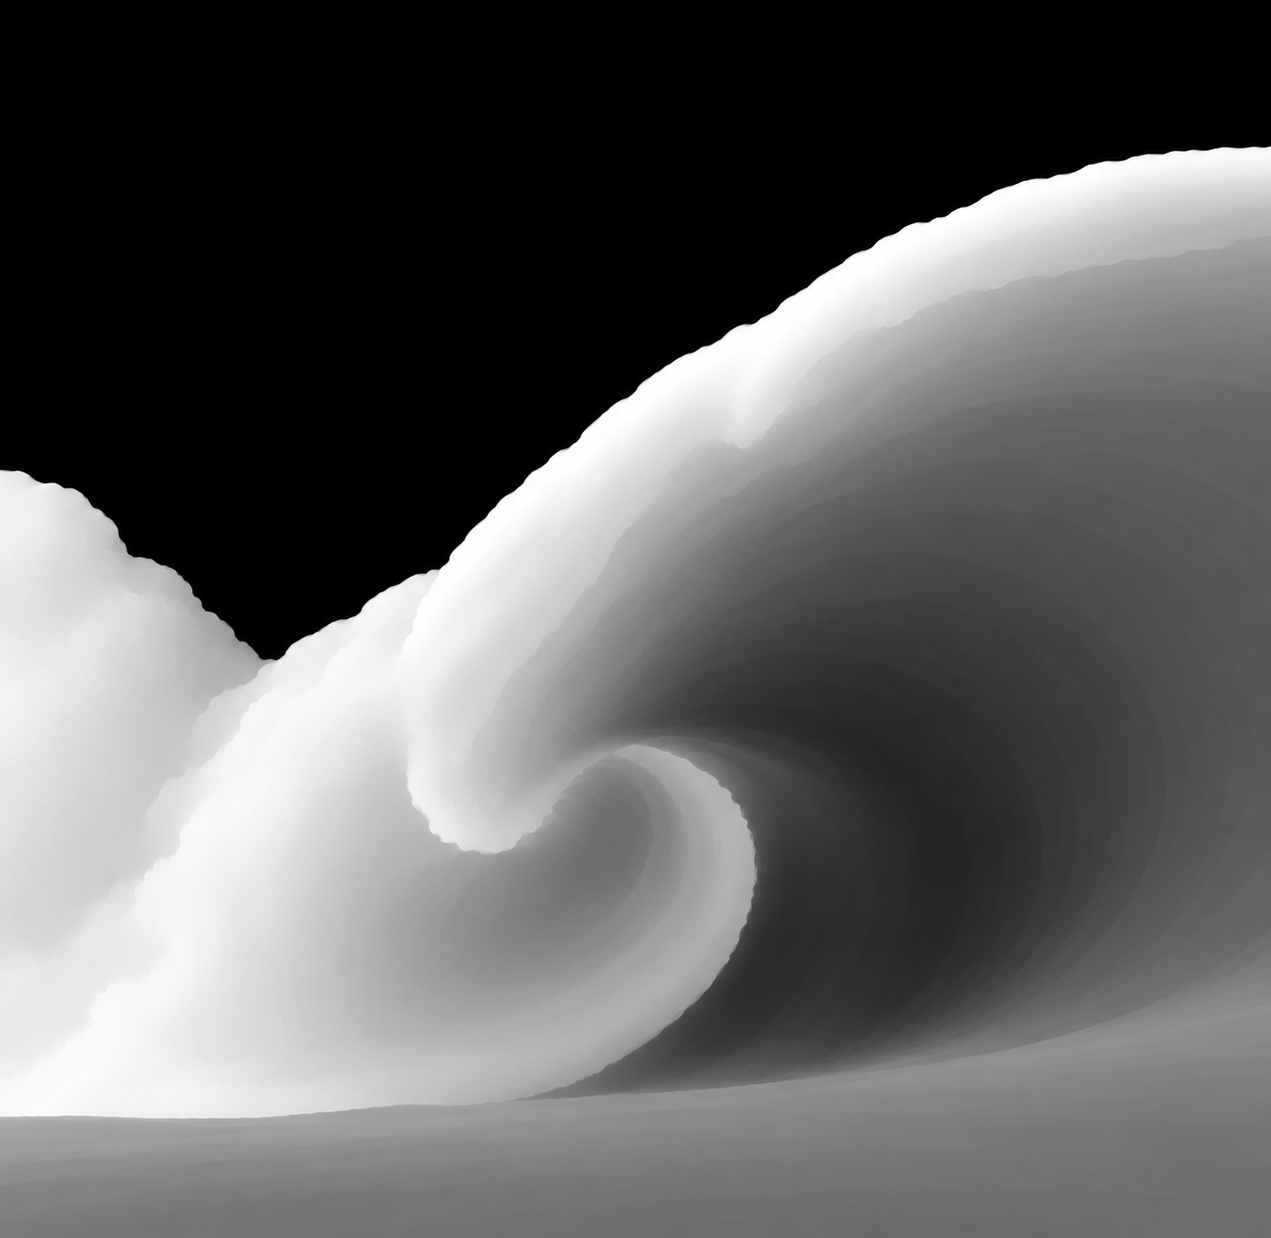
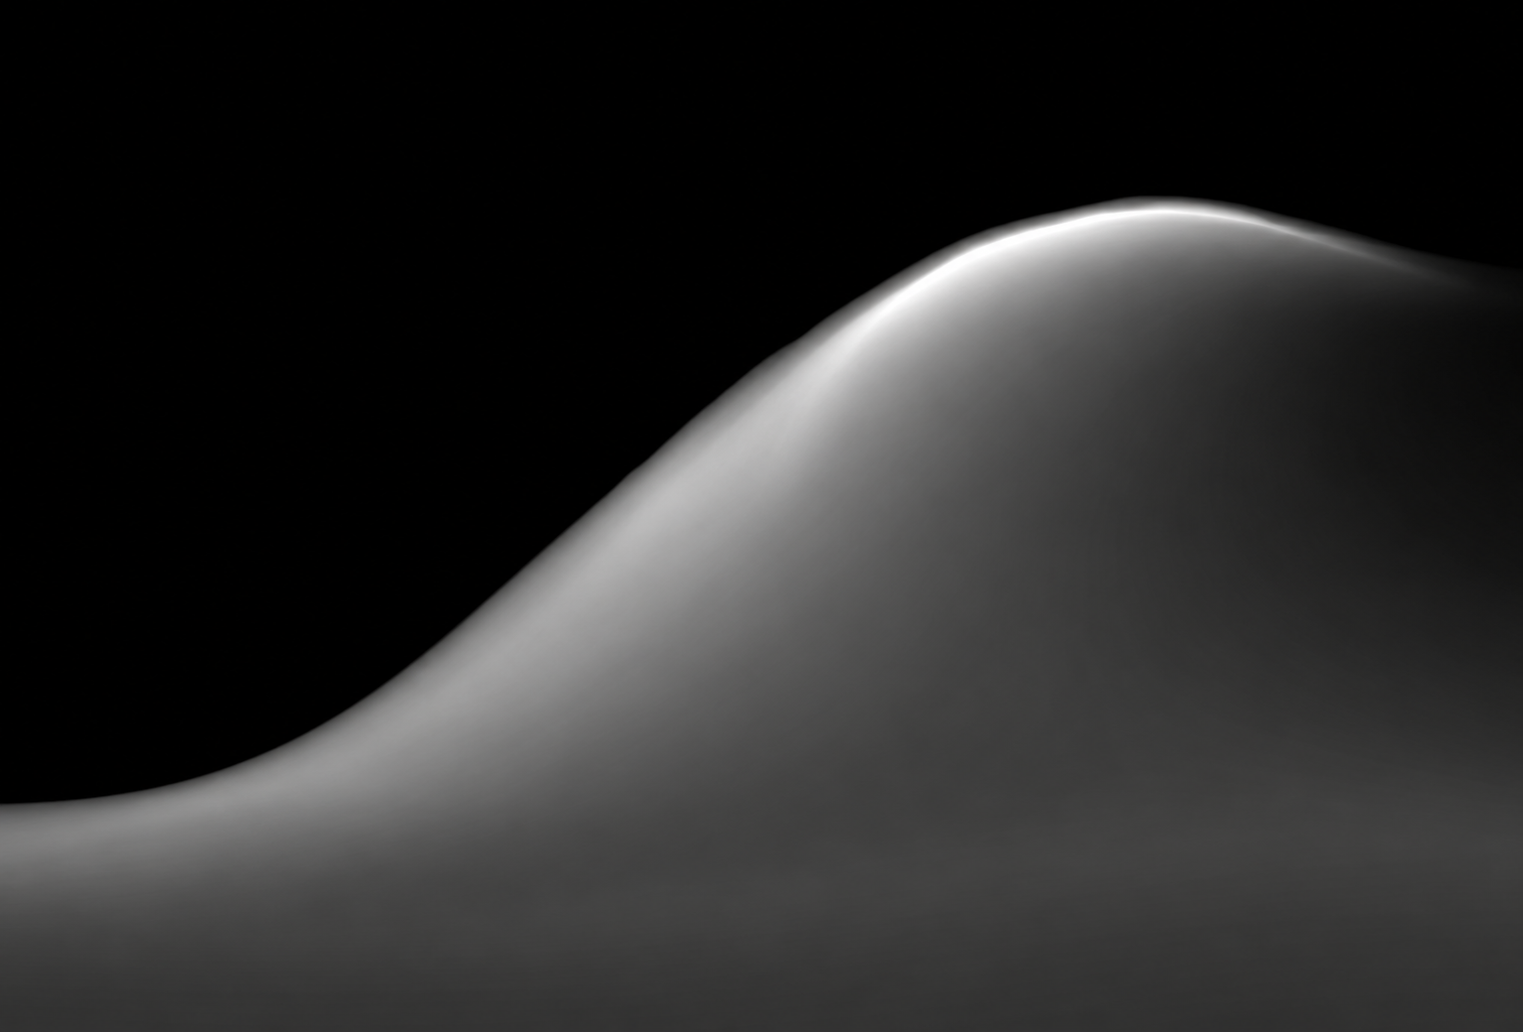
testing

diff --git a/index.js b/index.js
@@ -191,19 +191,16 @@ const uColor = gl.getUniformLocation(program, 'uColor');
 //    ground plane (y = 0), centered on the origin.
 // ---------------------------------------------------------------------
 // const GRID_SIZE = 1000;   //bigger
-const GRID_SIZE = 90;          // image is resampled to 40×40 → 1,600 cubes
+const GRID_SIZE = 120;          // image is resampled to 40×40 → 1,600 cubes
 const SPACING = 1.0;
-const imageURL = "https://lh3.googleusercontent.com/A0ukoBn7M8k_AjZ8MOC7bH0qHOUHWTuHP2co1Jxr97WsGQA0En5RqQn8OK48JQJYsdcNnTh-ayE6ScqlpQ5y80oxS5LvJUhJRmB3Y5kGxSRti_ZHH0rtIecRCrFhopc2Tdb0p3BkxZ-b1scNUg";
 
+
+const HEIGHT_SCALE = 15;
 let cubes = [];
-function isSky(r, g, b){
-  return r > 100 && b - r > 20;
-}
 
 function generateMapsFromImage(imageSrc, size) {
   return new Promise((resolve, reject) => {
     const img = new Image();
-    img.crossOrigin = "anonymous";
     img.onload = () => {
       const c = document.createElement("canvas");
       c.width = size;
@@ -212,47 +209,45 @@ function generateMapsFromImage(imageSrc, size) {
       ctx.drawImage(img, 0, 0, size, size);          // downsample
       const data = ctx.getImageData(0, 0, size, size).data;
 
-      const heightMap = [], colorMap = [], rawMap = [];
+      const heightMap = [], colorMap = [];
       for (let y = 0; y < size; y++) {
-        const hRow = [], cRow = [], rawRow = [];
+        const hRow = [], cRow = [];
         for (let x = 0; x < size; x++) {
           const i = (y * size + x) * 4;
           const r = data[i], g = data[i + 1], b = data[i + 2];
-          hRow.push(0.299 * r + 0.587 * g + 0.114 * b);  // 0..255
-          cRow.push([r / 255, g / 255, b / 255]);       // ready for uniform3fv
-          rawRow.push([r,g,b]);
+          hRow.push(0.299 * r + 0.587 * g + 0.114 * b);
+          cRow.push([r / 255, g / 255, b / 255]);
         }
-        heightMap.push(hRow); colorMap.push(cRow); rawMap.push(rawRow);
+        heightMap.push(hRow);
+        colorMap.push(cRow);
       }
-      resolve({ heightMap, colorMap, rawMap });
+      resolve({ heightMap, colorMap });
     };
     img.onerror = () => reject(new Error("Failed to load image: " + imageSrc));
     img.src = imageSrc;
   });
 }
 
-generateMapsFromImage(imageURL, GRID_SIZE)
-  .then(({ heightMap, colorMap, rawMap }) => {
-    cubes = [];
-
-    for (let row = 0; row < GRID_SIZE; row++) {
-      for (let col = 0; col < GRID_SIZE; col++) {
-        const [r,g,b] = rawMap[row][col];
-        //if(isSky(r,g,b)) continue;
-        
-        cubes.push({
-          x: (col - (GRID_SIZE - 1) / 2) * SPACING,
-          y: GRID_SIZE - row,
-          z: 0,
-          height: 0.5 + (heightMap[row][col] / 255) * 6,  // 0.5 to 4.5
-          color: colorMap[row][col],
-        });
-      }
+// Load BOTH images, then build the grid:
+// colors from the color image, heights from the height map.
+Promise.all([
+  generateMapsFromImage("wavecolor.png", GRID_SIZE),
+  generateMapsFromImage("waveheight.png", GRID_SIZE),
+]).then(([colorImg, heightImg]) => {
+  cubes = [];
+  for (let row = 0; row < GRID_SIZE; row++) {
+    for (let col = 0; col < GRID_SIZE; col++) {
+      cubes.push({
+        x: (col - (GRID_SIZE - 1) / 2) * SPACING,
+        z: (row - (GRID_SIZE - 1) / 2) * SPACING,
+        height: 0.5 + (heightImg.heightMap[row][col] / 255) * HEIGHT_SCALE,
+        color: colorImg.colorMap[row][col],
+      });
     }
-    draw();
-  })
-  .catch(console.error);
-
+  }
+  console.log("cubes:", cubes.length);
+  draw();
+}).catch(console.error);
 
 // ---------------------------------------------------------------------
 // 4. MATRIX HELPERS
@@ -403,8 +398,9 @@ function draw() {
   //
   // (The `false` argument means "don't transpose the matrix".
   // WebGL requires it to be false.)
-  gl.uniformMatrix4fv(uView, false, lookAt([GRID_SIZE * 0.6, GRID_SIZE * 0.6, GRID_SIZE * 1.4],
-    [0, GRID_SIZE / 2, 0], [0, 1, 0]));
+  gl.uniformMatrix4fv(uView, false, lookAt(
+    [GRID_SIZE * 0.8, GRID_SIZE * 0.8, GRID_SIZE * 1.0],
+    [0, 0, 0], [0, 1, 0]));
 
   // --- d. Draw every cube -------------------------------------------
   // Draw every cube: same triangles each time, different uniforms.
@@ -415,8 +411,8 @@ function draw() {
     // y stays 0 in the translation because the cube's bottom already
     // sits at y = 0, so stretching it makes it grow upward.
     const model = multiply(
-      translation(cube.x, cube.y, cube.z),
-      scaling(1, 1, cube.height),
+      translation(cube.x, 0, cube.z),
+      scaling(1, cube.height, 1),
     );
 
     // Send this cube's uniforms to the shaders. They stay set until we
